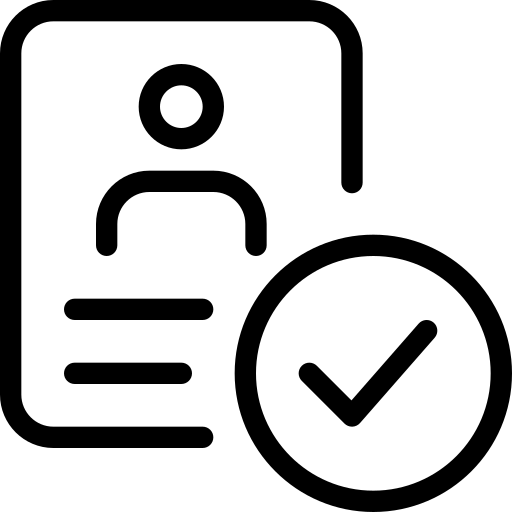
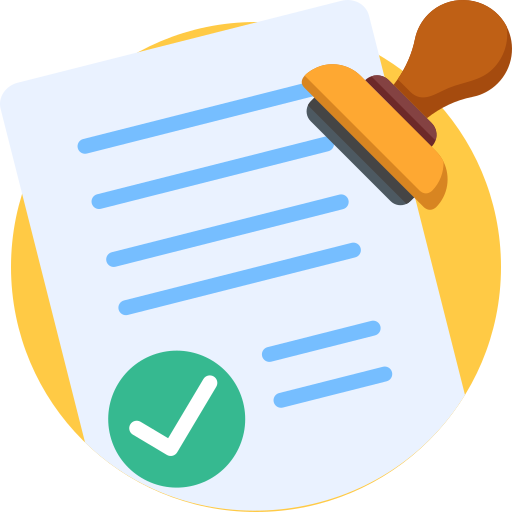
cc

diff --git a/src/Screens/Common/Complete.jsx b/src/Screens/Common/Complete.jsx
@@ -1,12 +1,21 @@
 import React from 'react';
 import { Oval } from 'react-loader-spinner';
-import { patchProfile } from '../../Store/actions';
+import { GetProfile, LogoutAction, patchProfile } from '../../Store/actions';
 import { useNavigate } from 'react-router-dom';
-import { useDispatch } from 'react-redux';
+import { useDispatch, useSelector } from 'react-redux';
+import { toast } from 'react-toastify';
+import 'react-toastify/dist/ReactToastify.css';
+import { IMAGE } from '../../Assets/Image';
 export default function Complete() {
-  const [loading, setLoading] = React.useState(false);
+  const [loading, setLoading] = React.useState(true);
   const navigate = useNavigate()
   const dispatch = useDispatch()
+  // const access = useSelector((state) => state.Reducers.access);
+  const profile = useSelector(state => state.Reducers.profile)
+  React.useEffect(() => {
+    dispatch(GetProfile())
+    setLoading(false)
+  }, [dispatch])
   const [data, setData] = React.useState({
     gst_certificate: "",
     gst_no: "",
@@ -19,97 +28,140 @@ export default function Complete() {
         <div className='flex min-h-full  flex-wrap w-[78%]  justify-center px-6 py-12 mr-100 lg:px-8'>
           <div className='sm:mx-auto sm:w-full  '>
             <h2 className='mt-10 text-center text-2xl  leading-9 tracking-tight text-gray-900'>
-              Complete Your Profile
+              KYC Verification
             </h2>
           </div>
-          <div className='mt-10 space-y-5 sm:mx-auto sm:w-full sm:max-w-sm'>
-            <div>
-              <label
-                htmlFor='pan'
-                className='block text-sm text-left font-medium leading-6 text-gray-900'>
-                PAN Card <span className='text-red-600'>*</span>
-              </label>
-              <div className='mt-2'>
-                <input
-                  id='pan'
-                  name='pan'
-                  type='text'
-                  value={data.pan_no}
-                  onChange={(e) => {
-                    setData({ ...data, pan_no: e.target.value });
-                  }}
-                  required
-                  className='block w-full p-5 border-2 py-1.5 text-gray-900'
-                />
-              </div>
-            </div>
+          <div className='sm:mx-auto mt-10  flex flex-row justify-between  items-center sm:w-full  '>
+            <h2 className='text-xl  leading-9 tracking-tight text-gray-900'>
+              Welcome, <span className='text-[#df633a]'>{profile?.name}</span>
+            </h2>
+            <button 
+            onClick={()=>{
+              dispatch(LogoutAction())
+              navigate('/login')
+            }}
+            className=' text-red-500 font-Raleway font-extrabold'>
+              Logout
+            </button>
           </div>
-          <div className='mt-10 space-y-5 sm:mx-auto sm:w-full sm:max-w-sm'>
-            <div>
-              <label className='block text-sm text-left font-medium leading-6 text-gray-900'>
-                Attach Pan Card <span className='text-red-600'>*</span>
-              </label>
-              <div className='mt-2'>
-                <input
-                  type='file'
-                  name='uploadFile'
-                  id='cv-upload'
-                  onChange={(e)=>{
-                    setData({ ...data, pan_card: e.target.files[0] });
-                  }}
-                  placeholder='ATTACH RESUME / CV'
-                  className=' w-full items-center space-x-2 flex p-5 border-2 py-1 text-gray-900'
-                />
-              </div>
-            </div>
+          <div className='w-full flex justify-center items-center '>
+          <img
+          className='h-[100px] w-[100px]'
+          src={IMAGE.kyc}
+          />
           </div>
-          <div className='mt-10 space-y-5 sm:mx-auto sm:w-full sm:max-w-sm'>
-            <div>
-              <label
-                htmlFor='pan'
-                className='block text-sm text-left font-medium leading-6 text-gray-900'>
-                GST Number <span className='text-red-600'>*</span>
-              </label>
-              <div className='mt-2'>
-                <input
-                  id='pan'
-                  name='pan'
-                  type='text'
-                  value={data.gst_no}
-                  onChange={(e) => {
-                    setData({ ...data, gst_no: e.target.value });
-                  }}
-                  required
-                  className='block w-full p-5 border-2 py-1.5 text-gray-900'
-                />
-              </div>
-            </div>
-          </div>
-          <div className='mt-10 space-y-5 sm:mx-auto sm:w-full sm:max-w-sm'>
-            <div>
-              <label className='block text-sm text-left font-medium leading-6 text-gray-900'>
-                Attach GST Certifcate <span className='text-red-600'>*</span>
-              </label>
-              <div className='mt-2'>
-                <input
-                  type='file'
-                  name='uploadFile'
-                  id='cv-upload'
-                  className=' w-full items-center space-x-2 flex p-5 border-2 py-1 text-gray-900'
-                  required
-                  onChange={(e) => {
-                    setData({ ...data, gst_certificate: e.target.files[0] });
-                  }}
-                />
-              </div>
-            </div>
-          </div>
+          
+          {
+            loading ?
+              <Oval />
+              :
+              <>
+                <div className='mt-10 space-y-5 sm:mx-auto sm:w-full sm:max-w-sm'>
+                  <div>
+                    <label
+                      htmlFor='pan'
+                      className='block text-sm text-left font-medium leading-6 text-gray-900'>
+                      PAN Card <span className='text-red-600'>*</span>
+                    </label>
+                    <div className='mt-2'>
+                      <input
+                        id='pan'
+                        name='pan'
+                        type='text'
+                        value={data.pan_no}
+                        onChange={(e) => {
+                          setData({ ...data, pan_no: e.target.value });
+                        }}
+                        required
+                        className='block w-full p-5 border-2 py-1.5 text-gray-900'
+                      />
+                    </div>
+                  </div>
+                </div>
+                <div className='mt-10 space-y-5 sm:mx-auto sm:w-full sm:max-w-sm'>
+                  <div>
+                    <label className='block text-sm text-left font-medium leading-6 text-gray-900'>
+                      Attach Pan Card <span className='text-red-600'>*</span>
+                    </label>
+                    <div className='mt-2'>
+                      <input
+                        type='file'
+                        name='uploadFile'
+                        id='cv-upload'
+                        onChange={(e) => {
+                          setData({ ...data, pan_card: e.target.files[0] });
+                        }}
+                        placeholder='ATTACH RESUME / CV'
+                        className=' w-full items-center space-x-2 flex p-5 border-2 py-1 text-gray-900'
+                      />
+                    </div>
+                  </div>
+                </div>
+                <div className='mt-10 space-y-5 sm:mx-auto sm:w-full sm:max-w-sm'>
+                  <div>
+                    <label
+                      htmlFor='pan'
+                      className='block text-sm text-left font-medium leading-6 text-gray-900'>
+                      GST Number <span className='text-red-600'>*</span>
+                    </label>
+                    <div className='mt-2'>
+                      <input
+                        id='pan'
+                        name='pan'
+                        type='text'
+                        value={data.gst_no}
+                        onChange={(e) => {
+                          setData({ ...data, gst_no: e.target.value });
+                        }}
+                        required
+                        className='block w-full p-5 border-2 py-1.5 text-gray-900'
+                      />
+                    </div>
+                  </div>
+                </div>
+                <div className='mt-10 space-y-5 sm:mx-auto sm:w-full sm:max-w-sm'>
+                  <div>
+                    <label className='block text-sm text-left font-medium leading-6 text-gray-900'>
+                      Attach GST Certifcate <span className='text-red-600'>*</span>
+                    </label>
+                    <div className='mt-2'>
+                      <input
+                        type='file'
+                        name='uploadFile'
+                        id='cv-upload'
+                        className=' w-full items-center space-x-2 flex p-5 border-2 py-1 text-gray-900'
+                        required
+                        onChange={(e) => {
+                          setData({ ...data, gst_certificate: e.target.files[0] });
+                        }}
+                      />
+                    </div>
+                  </div>
+                </div>
+              </>
+
+          }
+
           <div className='w-full flex justify-center items-center  mt-5'>
             <button
               type='submit'
               onClick={() => {
-                console.log(data)
+                // console.log(data)
+                if (data?.gst_no === "" || data?.gst_certificate === "" || data?.pan_no === "" || data?.pan_card === "") {
+                  toast.error("Please Enter the Data Below", {
+                    position: "top-center",
+                    autoClose: 1000,
+                    hideProgressBar: false,
+                    closeOnClick: true,
+                    pauseOnHover: true,
+                    draggable: true,
+                    progress: undefined,
+                    theme: "light",
+                  });
+                }
+                else {
                   dispatch(patchProfile(setLoading, data, navigate));
+                }
               }}
               className='flex self-center w-[40%] justify-center  bg-[#df633a] hover:bg-white hover:text-black hover:border-black hover:border-[1px] p-5 px-3 py-1.5 text-sm  leading-6 text-white shadow-sm '>
               {loading ? (

diff --git a/src/App.js b/src/App.js
@@ -41,6 +41,9 @@ export default function App() {
     (state) => state.Reducers.profile_complete
   );
   const is_verified = useSelector((state) => state.Reducers.is_verified);
+  const profile = useSelector((state) => state.Reducers.profile);
+
+  console.log(profile)
   const dispatch = useDispatch();
   React.useEffect(() => {
     dispatch(Init());

diff --git a/src/Assets/Image.js b/src/Assets/Image.js
@@ -11,6 +11,8 @@ export const IMAGE = {
     checked:require('./Images/checked.png'),
     cancel:require('./Images/cancel.png'),
     verified:require('./Images/verified.png'),
+    kyc:require('./Images/kyc.png'),
+
 
 
 }
